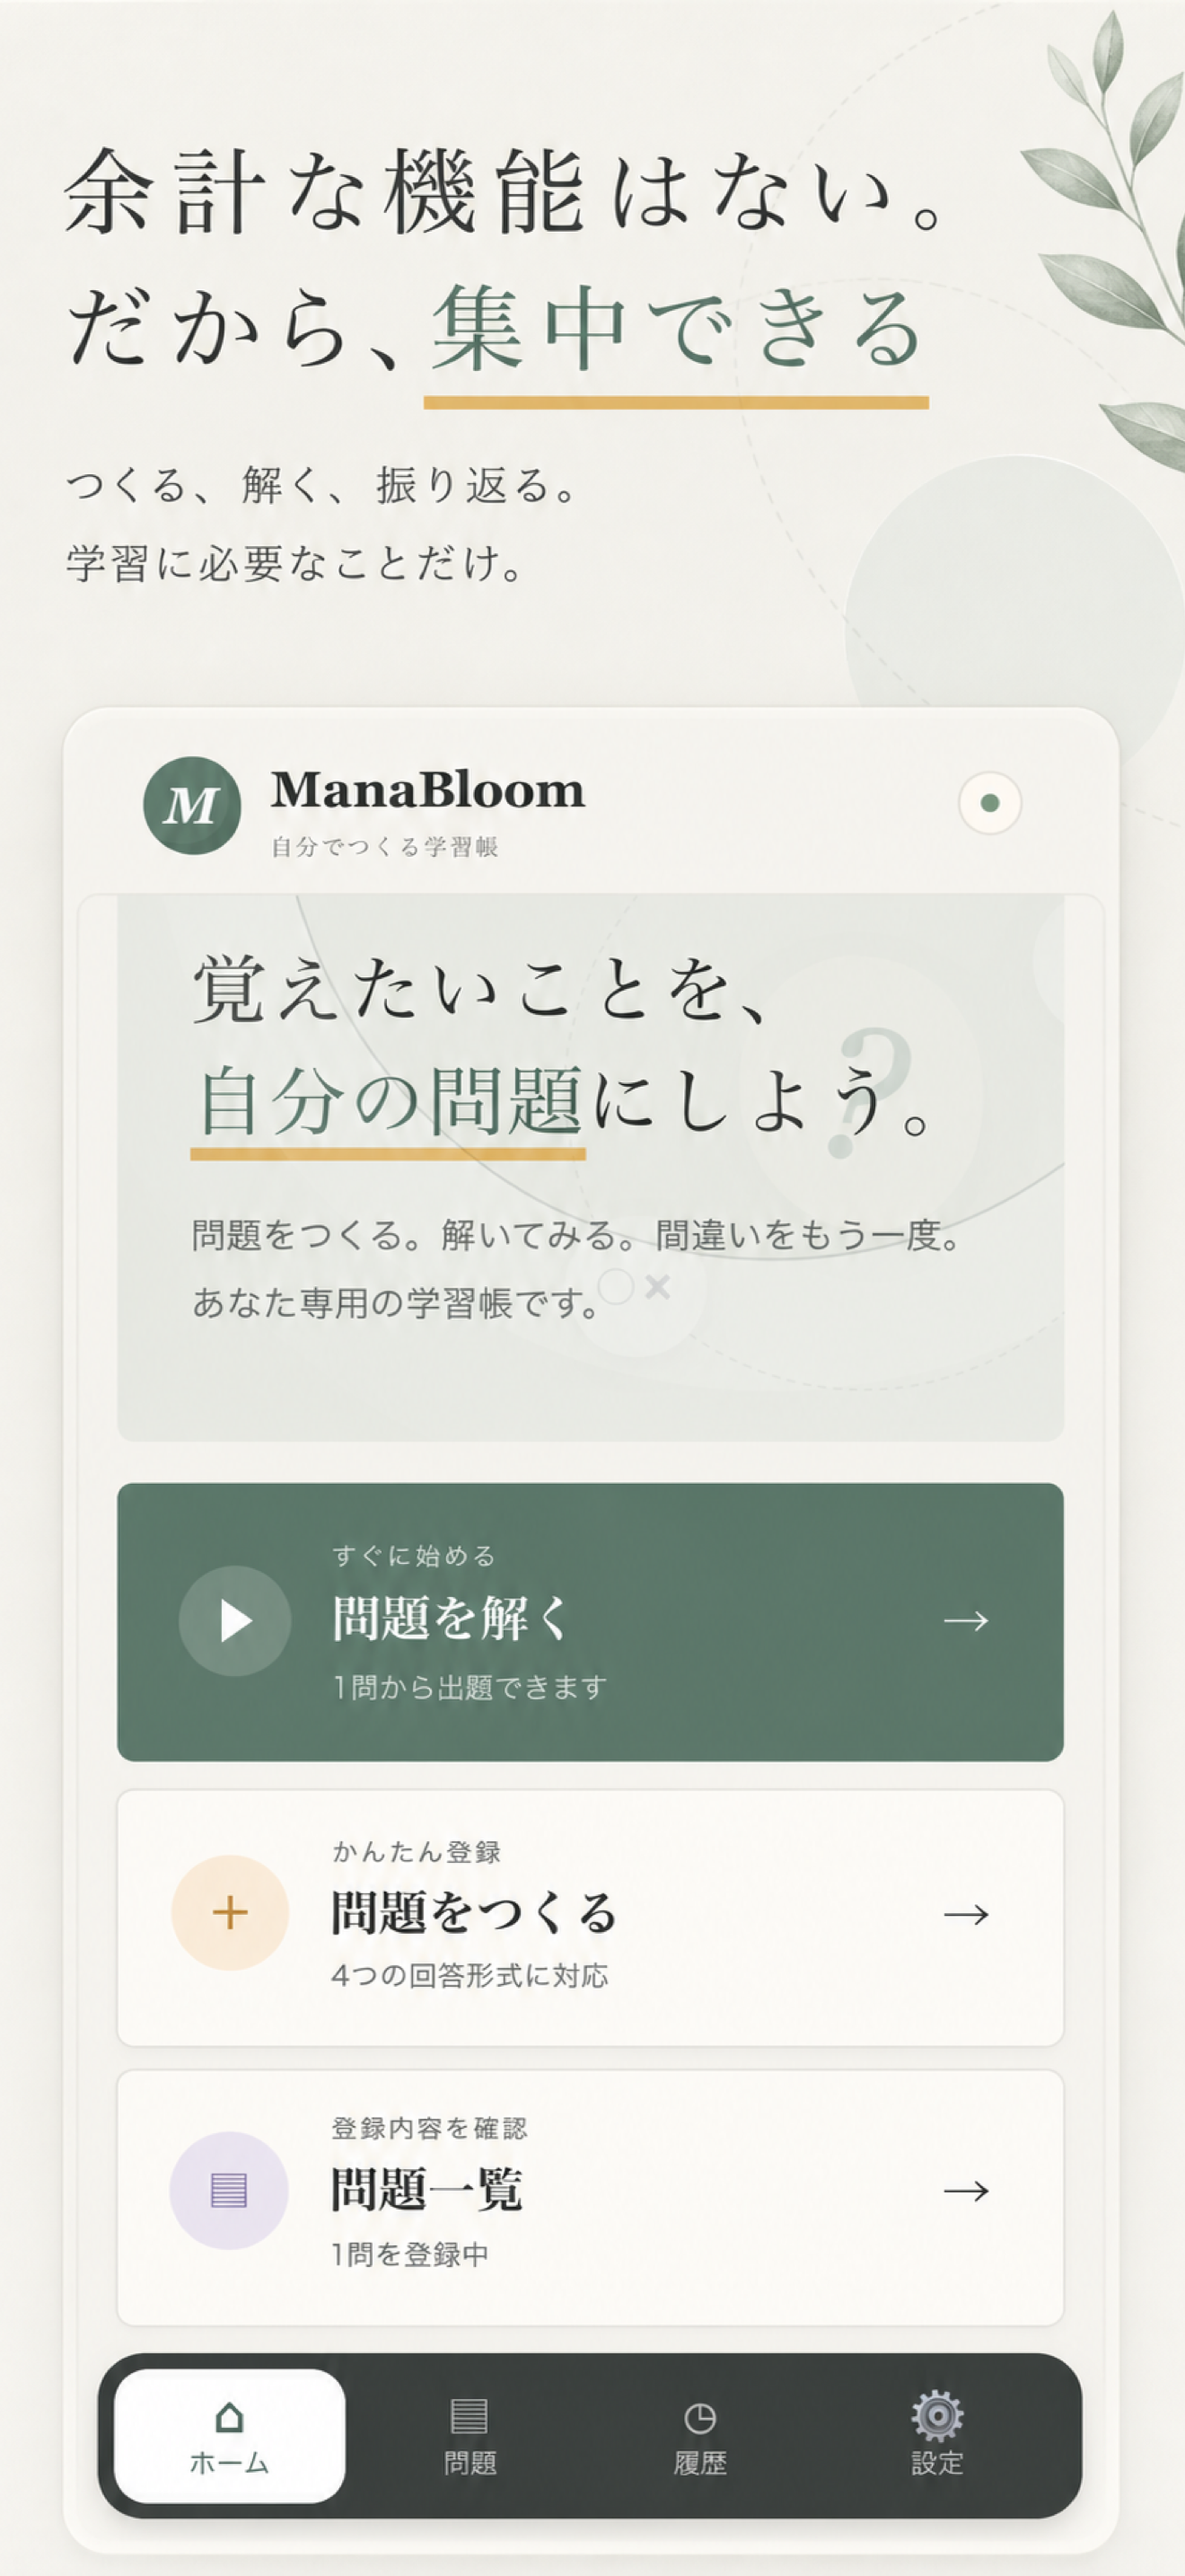
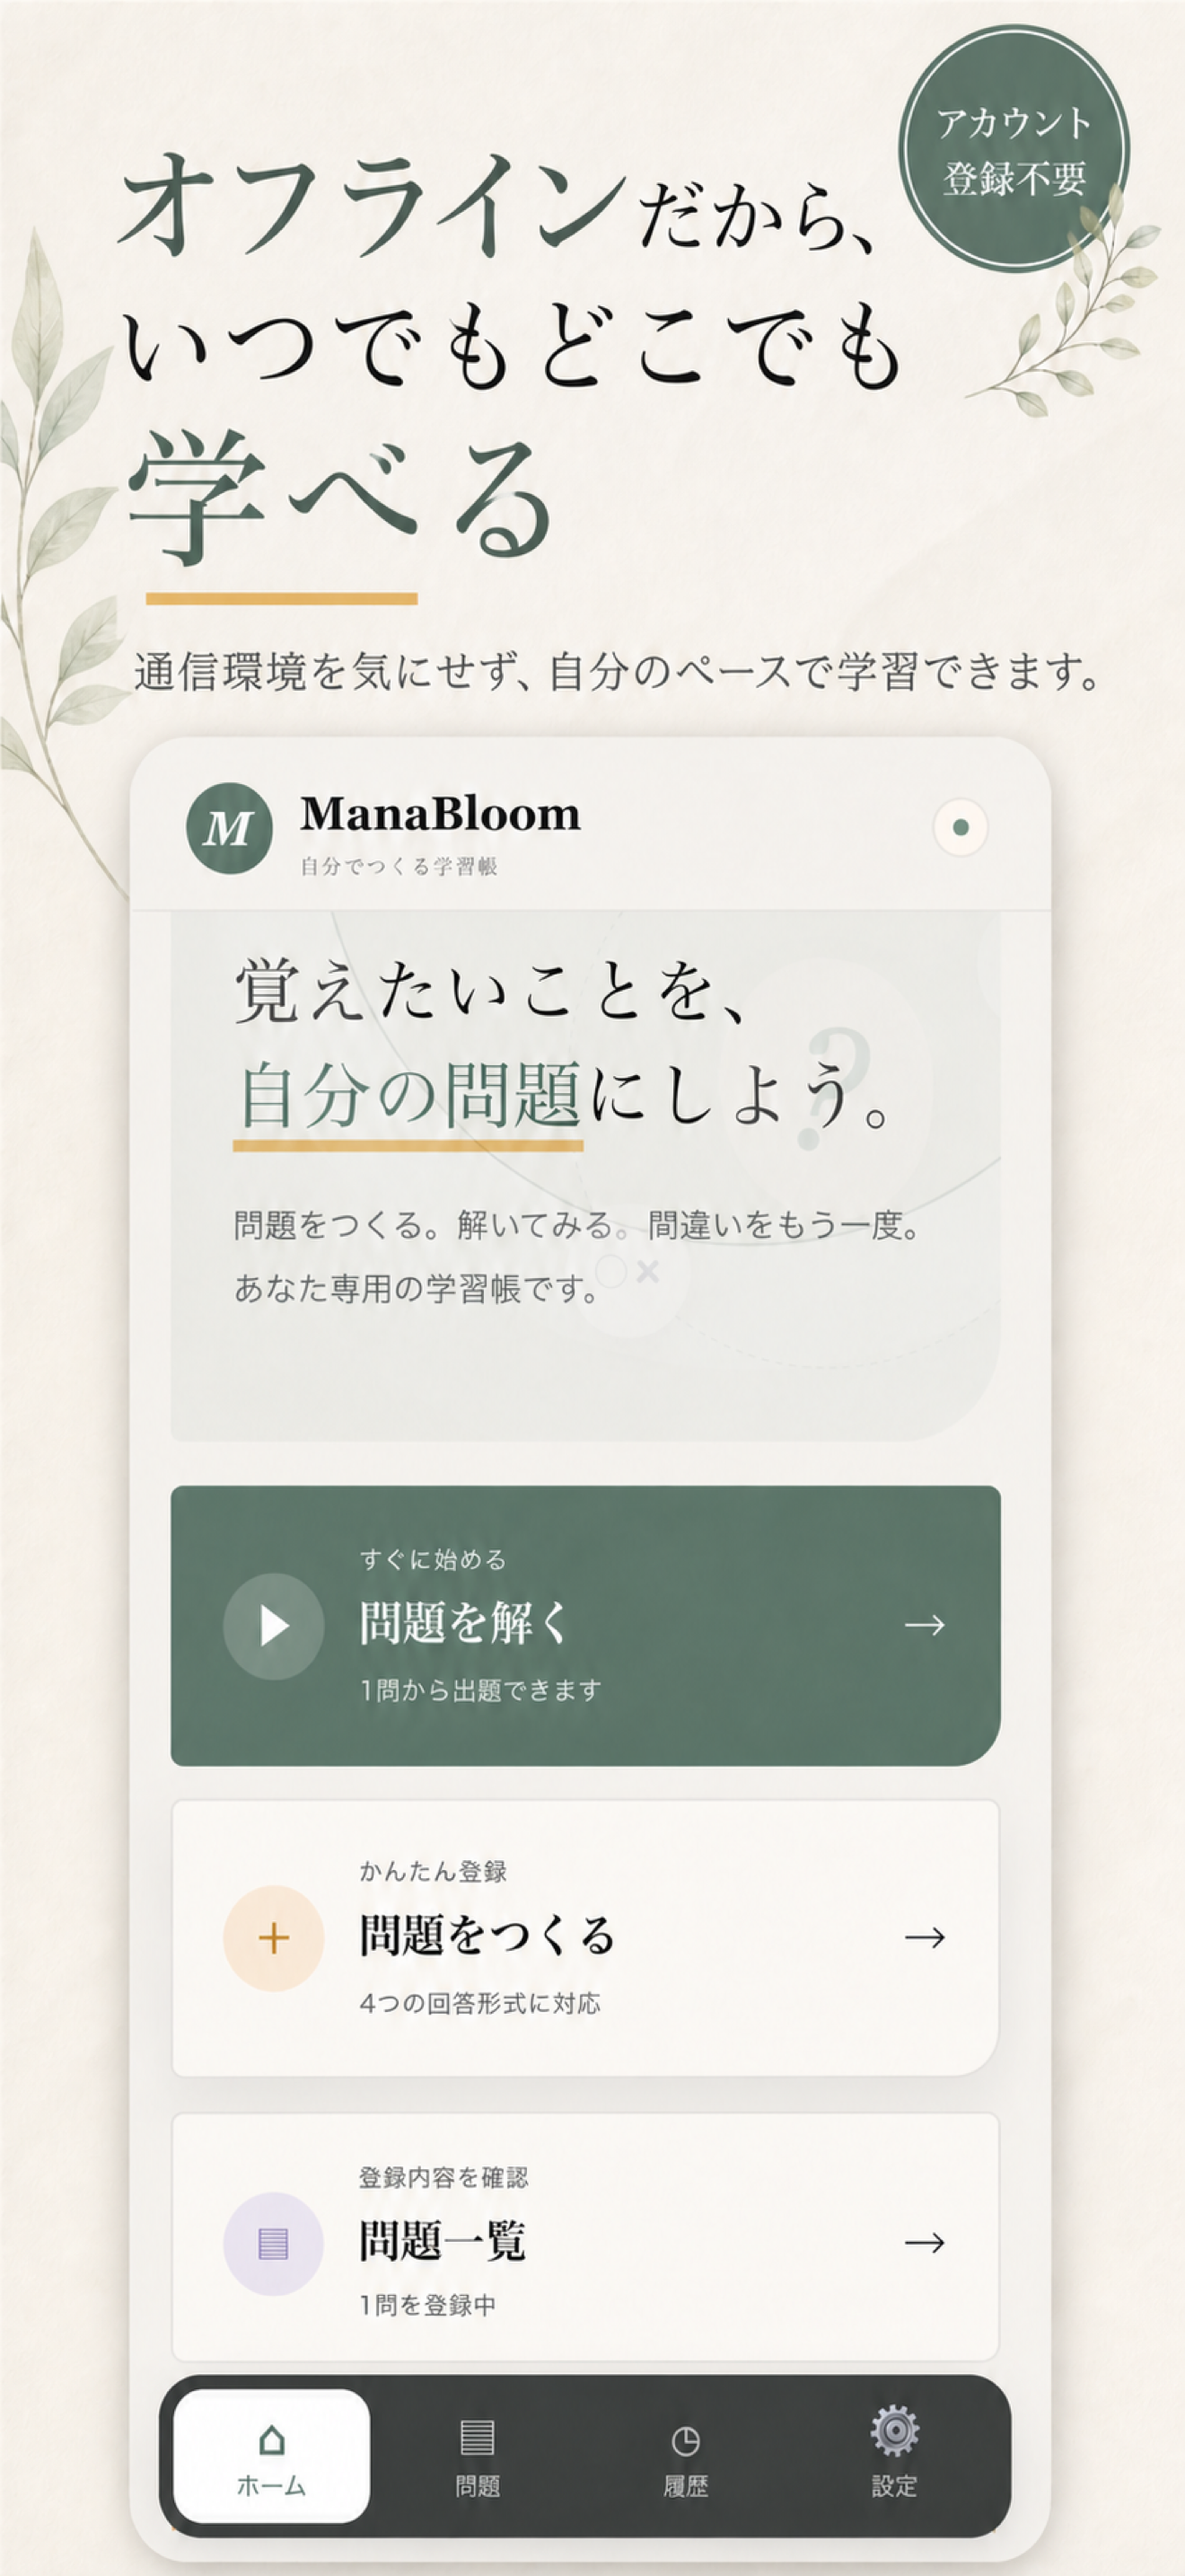
Prepare App Store listing content

diff --git a/docs/06_App Store掲載情報.md b/docs/06_App Store掲載情報.md
@@ -1,0 +1,108 @@
+# ManaBloom App Store掲載情報
+
+初版（バージョン1.0）向けの入力案。App Store Connectの主言語は「日本語」を想定する。
+
+## アプリ情報
+
+| 項目 | 入力案 |
+| --- | --- |
+| アプリ名 | ManaBloom |
+| サブタイトル | オフラインでいつでもどこでも学習 |
+| プライマリカテゴリ | 教育 |
+| セカンダリカテゴリ | 仕事効率化 |
+| バージョン | 1.0 |
+| Copyright | 2026 ManaBloom |
+| SKU | manabloom-ios-001 |
+
+> Copyrightには、実際に権利を所有する個人名または事業者名を入力する。`ManaBloom`が正式な権利者名でない場合は、提出前に変更する。
+
+## プロモーション用テキスト
+
+オフラインだから、いつでもどこでも学べる。通信環境を気にせず、問題をつくる・解く・振り返る。アカウント登録なしで使える自分専用学習帳です。
+
+## 説明
+
+ManaBloomは、通信環境を気にせず使える、オフライン対応の学習アプリです。
+
+問題作成、回答、学習履歴の確認はオフラインで利用できます。アカウント登録も必要ありません。通学・通勤中、電波の届きにくい場所、通信量を抑えたいときでも、自分の問題集で学習を続けられます。
+
+余計な機能を増やさず、「問題をつくる」「解く」「振り返る」という学習の流れに集中できるよう設計しました。登録した問題や学習履歴は端末内に保存されます。
+
+【自分だけの問題集】
+授業、資格試験、語学、趣味など、覚えたい内容を自由に登録できます。カテゴリを使って、学習内容を分けて整理できます。
+
+【4つの解答方式】
+・答えを直接入力する「フリー入力」
+・一文字ずつ選んで答えを組み立てる「一文字ずつ4択」
+・正しいか間違いかを選ぶ「○×問題」
+・用意した選択肢から答える「択一回答」
+
+問題に合った方式を選び、自分が思い出しやすい形で学習できます。
+
+【その日に合わせた出題設定】
+カテゴリや学習状況から出題範囲を選び、出題数を調整できます。1問ごとの制限時間も設定できるため、じっくり復習したい日にも、短時間で確認したい日にも使えます。
+
+【学習の記録を振り返る】
+これまでの回答数、正答率、学習回数を確認できます。日付ごとの回答結果も残るため、毎日の積み重ねをひと目で振り返れます。
+
+【オフラインで学習】
+問題作成、回答、履歴確認などの主要機能は、インターネット接続がなくても利用できます。学習データは端末内に保存され、運営者のサーバーへ送信されません。
+
+【バックアップ】
+学習データをJSONファイルとして書き出し、復元できます。大切な問題集の保管や端末移行に利用できます。
+
+アカウント登録は不要です。自分のペースで、自分だけの学習帳を育ててください。
+
+※本アプリには楽天アフィリエイトの広告リンクが含まれます。リンクを表示しただけで、端末内の学習データが楽天へ送信されることはありません。
+
+## キーワード
+
+```text
+自主学習,試験勉強,暗記学習,復習記録,自作問題,クイズ,オフライン
+```
+
+アプリ名や他社名はキーワードに含めない。
+
+## URL
+
+| 項目 | URL |
+| --- | --- |
+| サポートURL | https://manabloom-study.zardibuki.chatgpt.site/support |
+| プライバシーポリシーURL | https://manabloom-study.zardibuki.chatgpt.site/privacy |
+| マーケティングURL（任意） | https://manabloom-study.zardibuki.chatgpt.site/ |
+
+## App Review連絡情報
+
+| 項目 | 入力内容 |
+| --- | --- |
+| 連絡先氏名 | Apple Developer Program登録者の氏名 |
+| 電話番号 | Appleから連絡を受けられる電話番号 |
+| メールアドレス | zardibuki@icloud.com |
+| サインイン情報 | サインイン不要 |
+
+## 審査メモ
+
+```text
+ManaBloomは、利用者が自分で問題を作成して回答・復習する学習アプリです。アカウント登録やログインは必要ありません。
+
+カテゴリ、問題、回答履歴および設定は端末内に保存されます。主要な学習機能はオフラインで利用できます。設定画面からJSONバックアップの書き出しと復元を確認できます。
+
+ホーム画面下部には「広告・PR」と明示した楽天アフィリエイトのテキストリンクがあります。広告SDK、解析SDKおよび追跡機能はアプリに組み込んでいません。リンクは利用者がタップした場合のみ外部の楽天市場を開きます。
+
+プライバシーポリシーとサポートページは、設定画面から確認できます。
+```
+
+## スクリーンショット掲載順
+
+1. `02-focus.png` — オフラインだから、いつでもどこでも学べる
+2. `03-answer-types.png` — 4つの解答方式から選べる
+3. `04-quiz-settings.png` — 問題数も、制限時間も自由に
+4. `05-letter-choice.png` — 一文字ずつ選んで、記憶を引き出す
+5. `06-true-false.png` — ○×問題で、テンポよく確認
+6. `01-daily-progress.png` — 毎日の成長が、一目でわかる
+
+## 初版では不要な項目
+
+- 「このバージョンの新機能」：初回リリースでは表示されない。
+- Appプレビュー動画：任意。初版ではスクリーンショットのみでよい。
+- マーケティングURL：任意。上記トップページを設定してもよい。
